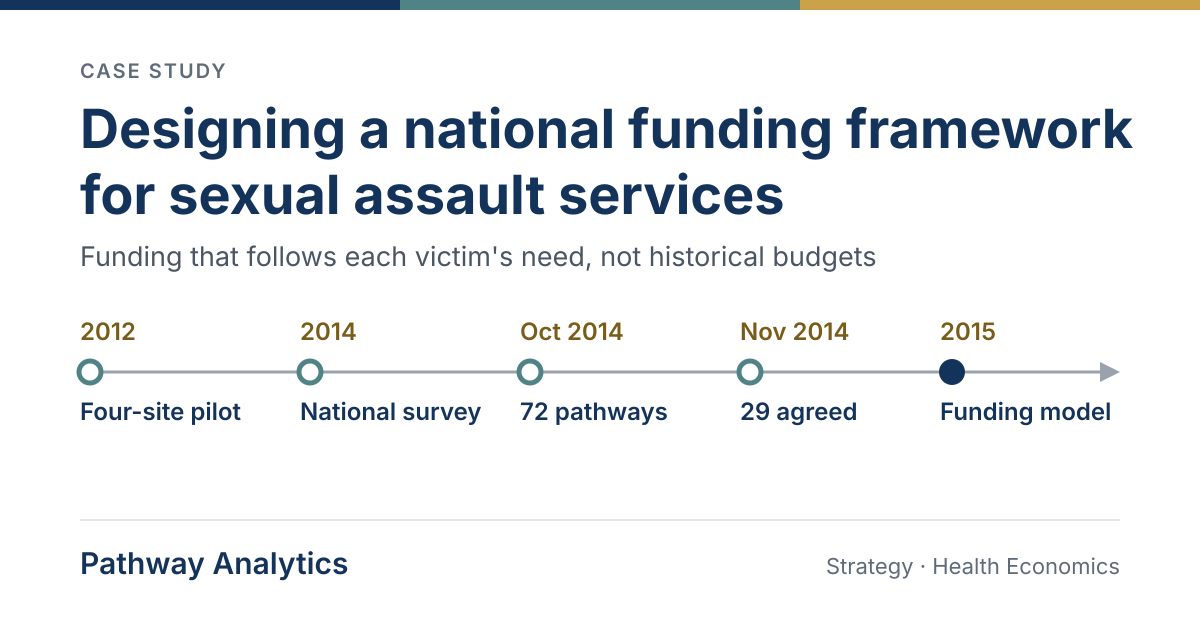
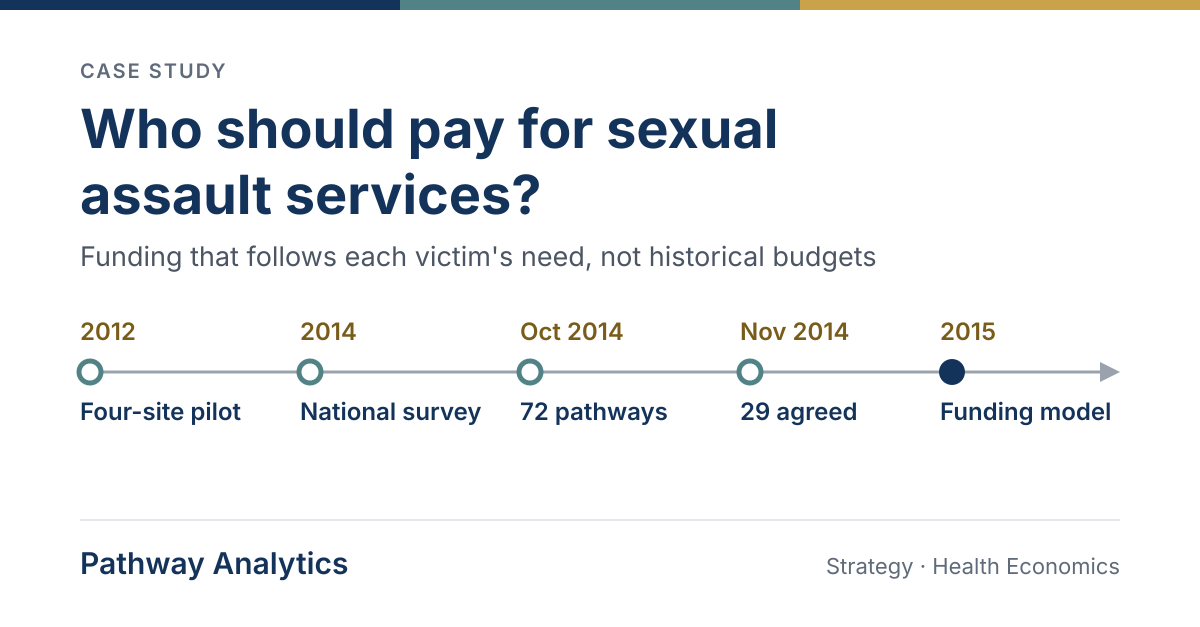
Sexual assault case study: new title (#8)
Who should pay for sexual assault services?

Claude-Session: https://claude.ai/code/session_01EFTeqdAmkcvYptNwfFAcvx

Changed region(s): [[0.0617, 0.1515, 0.9558, 0.3636]]

diff --git a/case-studies/sexual-assault-services.html b/case-studies/sexual-assault-services.html
@@ -10,25 +10,25 @@
   <!-- Generated per page by infra/gen-pages.mjs from each page's Markdown.
        To change a page's description or image, edit the meta comment at the
        top of its .md file, not these tags. -->
-  <title>Designing a national funding framework for sexual assault services — Pathway Analytics</title>
+  <title>Who should pay for sexual assault services? — Pathway Analytics</title>
   <meta name="description" content="How Pathway Analytics built a national framework for costing sexual assault services and sharing the cost across health, policing, justice and local government.">
   <meta name="robots" content="index, follow">
   <link rel="canonical" href="https://pathwayanalytics.com/case-studies/sexual-assault-services">
   <meta property="og:site_name" content="Pathway Analytics">
   <meta property="og:locale" content="en_GB">
   <meta property="og:type" content="article">
-  <meta property="og:title" content="Designing a national funding framework for sexual assault services">
+  <meta property="og:title" content="Who should pay for sexual assault services?">
   <meta property="og:description" content="How Pathway Analytics built a national framework for costing sexual assault services and sharing the cost across health, policing, justice and local government.">
   <meta property="og:url" content="https://pathwayanalytics.com/case-studies/sexual-assault-services">
   <meta property="og:image" content="https://pathwayanalytics.com/assets/images/og/sexual-assault-services.png">
-  <meta property="og:image:alt" content="Case study: Designing a national funding framework for sexual assault services, from a four-site pilot in 2012 to a proposed funding allocation in 2015.">
+  <meta property="og:image:alt" content="Case study: Who should pay for sexual assault services? From a four-site pilot in 2012 to a proposed funding allocation in 2015.">
   <meta property="og:image:width" content="1200">
   <meta property="og:image:height" content="627">
   <meta name="twitter:card" content="summary_large_image">
-  <meta name="twitter:title" content="Designing a national funding framework for sexual assault services">
+  <meta name="twitter:title" content="Who should pay for sexual assault services?">
   <meta name="twitter:description" content="How Pathway Analytics built a national framework for costing sexual assault services and sharing the cost across health, policing, justice and local government.">
   <meta name="twitter:image" content="https://pathwayanalytics.com/assets/images/og/sexual-assault-services.png">
-  <script type="application/ld+json">{"@context":"https://schema.org","@type":"Article","headline":"Designing a national funding framework for sexual assault services","description":"How Pathway Analytics built a national framework for costing sexual assault services and sharing the cost across health, policing, justice and local government.","url":"https://pathwayanalytics.com/case-studies/sexual-assault-services","mainEntityOfPage":"https://pathwayanalytics.com/case-studies/sexual-assault-services","image":"https://pathwayanalytics.com/assets/images/og/sexual-assault-services.png","author":{"@type":"Organization","name":"Pathway Analytics","url":"https://pathwayanalytics.com"},"publisher":{"@type":"Organization","name":"Pathway Analytics","url":"https://pathwayanalytics.com","logo":{"@type":"ImageObject","url":"https://mta-sts.pathwayanalytics.com/logo/Pathway%20Analytics%20Logo%20small.png"}}}</script>
+  <script type="application/ld+json">{"@context":"https://schema.org","@type":"Article","headline":"Who should pay for sexual assault services?","description":"How Pathway Analytics built a national framework for costing sexual assault services and sharing the cost across health, policing, justice and local government.","url":"https://pathwayanalytics.com/case-studies/sexual-assault-services","mainEntityOfPage":"https://pathwayanalytics.com/case-studies/sexual-assault-services","image":"https://pathwayanalytics.com/assets/images/og/sexual-assault-services.png","author":{"@type":"Organization","name":"Pathway Analytics","url":"https://pathwayanalytics.com"},"publisher":{"@type":"Organization","name":"Pathway Analytics","url":"https://pathwayanalytics.com","logo":{"@type":"ImageObject","url":"https://mta-sts.pathwayanalytics.com/logo/Pathway%20Analytics%20Logo%20small.png"}}}</script>
   <!-- page-meta:end -->
 
   <!-- Legacy links. Pages used to live at /#/section/page. Rewrite those to
@@ -96,7 +96,7 @@
   <a href="#app" class="skip-link">Skip to main content</a>
 
   <div id="app" role="main" aria-label="Documentation content"><!-- prerender:start --><div class="prerender"><nav class="prerender-nav"><a href="/">Pathway Analytics</a> / <a href="/case-studies/">case studies</a></nav><article class="markdown-section"><div class="cs-rule"><span class="cs-navy"></span><span class="cs-teal"></span><span class="cs-gold"></span></div>
-<p class="cs-tags"><span class="cs-navy">Strategy</span> · <span class="cs-teal">Health Economics</span></p><h1>Designing a national funding framework for sexual assault services</h1>
+<p class="cs-tags"><span class="cs-navy">Strategy</span> · <span class="cs-teal">Health Economics</span></p><h1>Who should pay for sexual assault services?</h1>
 <p class="cs-project">National SARC Subgroup on Pathway Costing, then NHS England with the Home Office and the Ministry of Justice · 2012 to 2015</p><p class="cs-standfirst">Between 2012 and 2015 Pathway Analytics led two linked national commissions on a problem no single body owned: how to organise and pay for care for victims of sexual assault when responsibility is split between health, policing, criminal justice, local government and the voluntary sector. The work agreed what good practice looks like, built an economic model that reflects each victim's level of need, and proposed how the cost should be shared. The principle was that funding should follow need, not historical budgets and organisational boundaries.</p><img class="cs-fig cs-fig-wide" src="/assets/images/case-studies/sas-needs-over-time.svg" alt="Three illustrative victims. An adult's need moves from acute at first contact and forensic examination, to complex, vulnerable and then ongoing for later counselling. An adolescent is vulnerable at several steps and does not need others. A child is acute at every step.">
 <img class="cs-fig cs-fig-narrow" src="/assets/images/case-studies/sas-needs-over-time-mobile.svg" alt="Three illustrative victims. An adult's need moves from acute at first contact and forensic examination, to complex, vulnerable and then ongoing for later counselling. An adolescent is vulnerable at several steps and does not need others. A child is acute at every step."><p class="figure-caption">Illustrative scenarios, not typical pathways for each age group.</p><div class="cs-stats">
 <div><b>29</b><span>core pathways agreed, from 72 mapped with stakeholders</span></div>

diff --git a/case-studies/index.html b/case-studies/index.html
@@ -99,7 +99,7 @@
 <p>Pathway Analytics delivers healthcare economics consultancy across the NHS, supporting commissioners and providers with data-driven approaches to tariff implementation, pathway costing, and service transformation. The case studies below illustrate how our work has delivered measurable improvements for clients.</p>
 <h2>Available Case Studies</h2>
 <p><a href="/case-studies/sexual-health-tariff">Redesigning the funding of sexual health services in England</a>: how Pathway Analytics redesigned the funding of sexual health services, from clinical pathways and financial impact modelling to a tariff and digital service still in use across England.</p>
-<p><a href="/case-studies/sexual-assault-services">Designing a national funding framework for sexual assault services</a>: how Pathway Analytics agreed good-practice pathways for victims of sexual assault, built an economic model of their cost, and proposed how health, policing, justice and local government should share it.</p>
+<p><a href="/case-studies/sexual-assault-services">Who should pay for sexual assault services?</a> How Pathway Analytics agreed good-practice pathways for victims of sexual assault, built an economic model of their cost, and proposed how health, policing, justice and local government should share it.</p>
 <blockquote>
 <p>More case studies are being developed and will be published here as they are completed. <a href="mailto:enquiries@pathwayanalytics.com">Contact us</a> to discuss how we can support your organisation.</p>
 </blockquote>

diff --git a/case-studies/README.md b/case-studies/README.md
@@ -6,7 +6,7 @@ Pathway Analytics delivers healthcare economics consultancy across the NHS, supp
 
 [Redesigning the funding of sexual health services in England](/case-studies/sexual-health-tariff): how Pathway Analytics redesigned the funding of sexual health services, from clinical pathways and financial impact modelling to a tariff and digital service still in use across England.
 
-[Designing a national funding framework for sexual assault services](/case-studies/sexual-assault-services): how Pathway Analytics agreed good-practice pathways for victims of sexual assault, built an economic model of their cost, and proposed how health, policing, justice and local government should share it.
+[Who should pay for sexual assault services?](/case-studies/sexual-assault-services) How Pathway Analytics agreed good-practice pathways for victims of sexual assault, built an economic model of their cost, and proposed how health, policing, justice and local government should share it.
 
 > More case studies are being developed and will be published here as they are completed. [Contact us](mailto:enquiries@pathwayanalytics.com) to discuss how we can support your organisation.
 

diff --git a/case-studies/sexual-assault-services.md b/case-studies/sexual-assault-services.md
@@ -1,13 +1,13 @@
 <!-- meta
 description: How Pathway Analytics built a national framework for costing sexual assault services and sharing the cost across health, policing, justice and local government.
 image: /assets/images/og/sexual-assault-services.png
-image_alt: Case study: Designing a national funding framework for sexual assault services, from a four-site pilot in 2012 to a proposed funding allocation in 2015.
+image_alt: Case study: Who should pay for sexual assault services? From a four-site pilot in 2012 to a proposed funding allocation in 2015.
 -->
 
 <div class="cs-rule"><span class="cs-navy"></span><span class="cs-teal"></span><span class="cs-gold"></span></div>
 <p class="cs-tags"><span class="cs-navy">Strategy</span> · <span class="cs-teal">Health Economics</span></p>
 
-# Designing a national funding framework for sexual assault services
+# Who should pay for sexual assault services?
 
 <p class="cs-project">National SARC Subgroup on Pathway Costing, then NHS England with the Home Office and the Ministry of Justice · 2012 to 2015</p>
 
